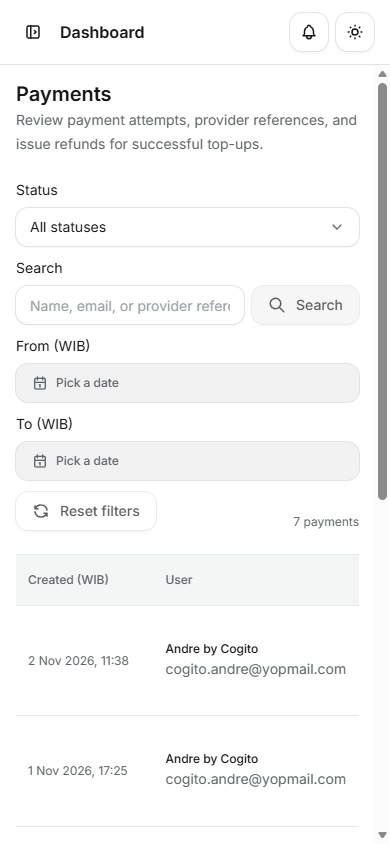
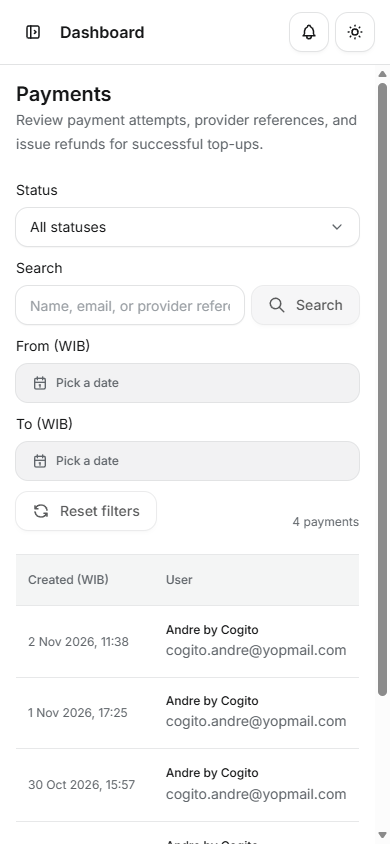
fix(admin): tighten payment table row spacing

diff --git a/apps/web/src/components/admin/admin-payments-page.tsx b/apps/web/src/components/admin/admin-payments-page.tsx
@@ -347,7 +347,7 @@ export function AdminPaymentsPage() {
       ) : (
         <div id="admin-payments" className="min-w-0">
           <TableContainer className="min-w-0 max-w-none">
-            <Table className="min-w-[60rem] text-sm">
+            <Table className="min-w-[60rem] text-sm [&_td]:py-2.5 [&_th]:py-2">
               <TableHeader>
                 <TableRow>
                   <TableHead className="w-36 whitespace-nowrap">
